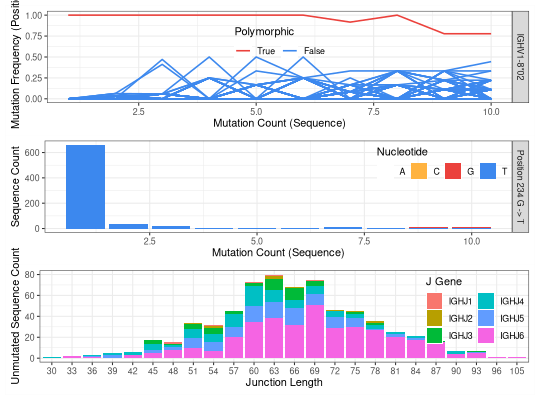
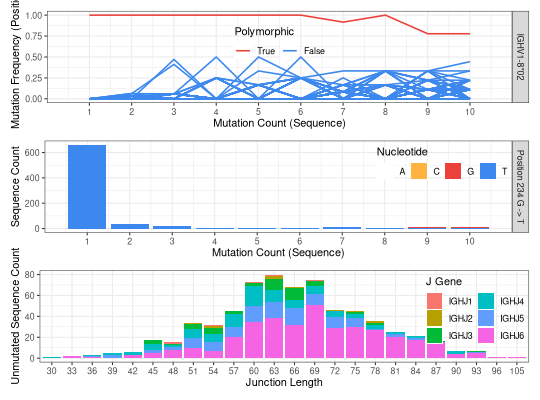
[skip ci] Auto-render docs.

diff --git a/docs/news.md b/docs/news.md
@@ -1,5 +1,21 @@
 # Release Notes
 
+
+Version 1.1.3: April 13, 2026
+-------------------------------------------------------------------------------
+
+Bug Fixes:
+
++ Updated `plotNovel` to display integer x-axis labels in the mutation count plots.
+
++ Fixed `findNovelAlleles` to correctly dereference the `pos_range_max` column
+  name when filtering SNP positions.
+
+Documentation:
+
++ Updated example for `subsampleDb` to use `set.seed` for reproducibility.
+
+
 Version 1.1.2: January 9, 2026
 -------------------------------------------------------------------------------
 

diff --git a/docs/index.md b/docs/index.md
@@ -50,8 +50,9 @@ To receive alerts about Immcantation releases, news, events, and tutorials, join
 [Daniel Gadala-Maria](mailto:daniel.gadala-maria@yale.edu) (aut)  
 [Susanna Marquez](mailto:susanna.marquez@yale.edu) (aut, cre)  
 [Moriah Cohen](mailto:moriah.cohen@biu.ac.il) (aut)  
+[Ayelet Peres](mailto:ayelet.peres@yale.edu) (aut)  
 [Jason Vander Heiden](mailto:jason.vanderheiden@gmail.com) (aut)  
-[Gur Yaari](mailto:gur.yaari@biu.ac.il) (aut)  
+[Gur Yaari](mailto:gur.yaari@yale.edu) (aut)  
 [Steven Kleinstein](mailto:steven.kleinstein@yale.edu) (aut, cph)
 
 

diff --git a/docs/topics/tigger-package.md b/docs/topics/tigger-package.md
@@ -35,8 +35,9 @@ Authors:
 
 +  Daniel Gadala-Maria [daniel.gadala-maria@yale.edu](daniel.gadala-maria@yale.edu)
 +  Moriah Cohen [moriah.cohen@biu.ac.il](moriah.cohen@biu.ac.il)
++  Ayelet Peres [ayelet.peres@yale.edu](ayelet.peres@yale.edu)
 +  Jason Vander Heiden [jason.vanderheiden@gmail.com](jason.vanderheiden@gmail.com)
-+  Gur Yaari [gur.yaari@biu.ac.il](gur.yaari@biu.ac.il)
++  Gur Yaari [gur.yaari@yale.edu](gur.yaari@yale.edu)
 +  Steven Kleinstein [steven.kleinstein@yale.edu](steven.kleinstein@yale.edu) [copyright holder]
 
 
